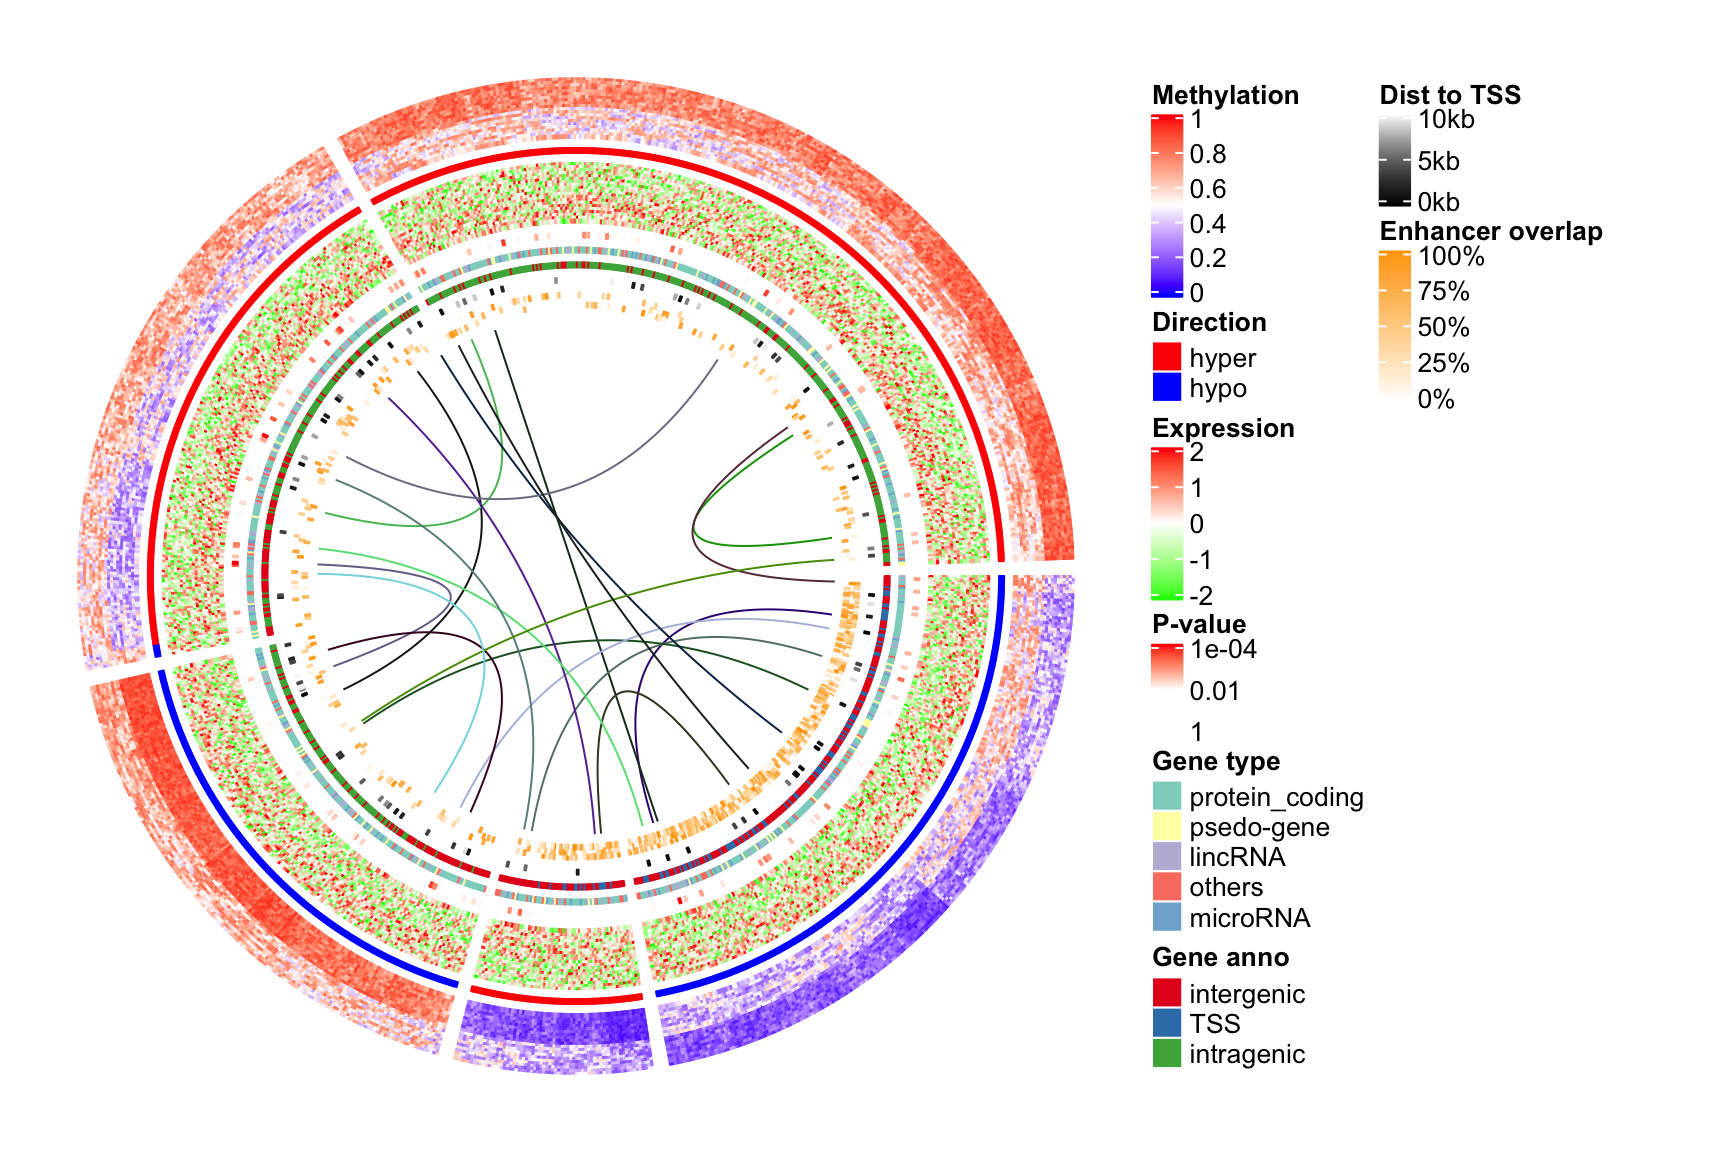
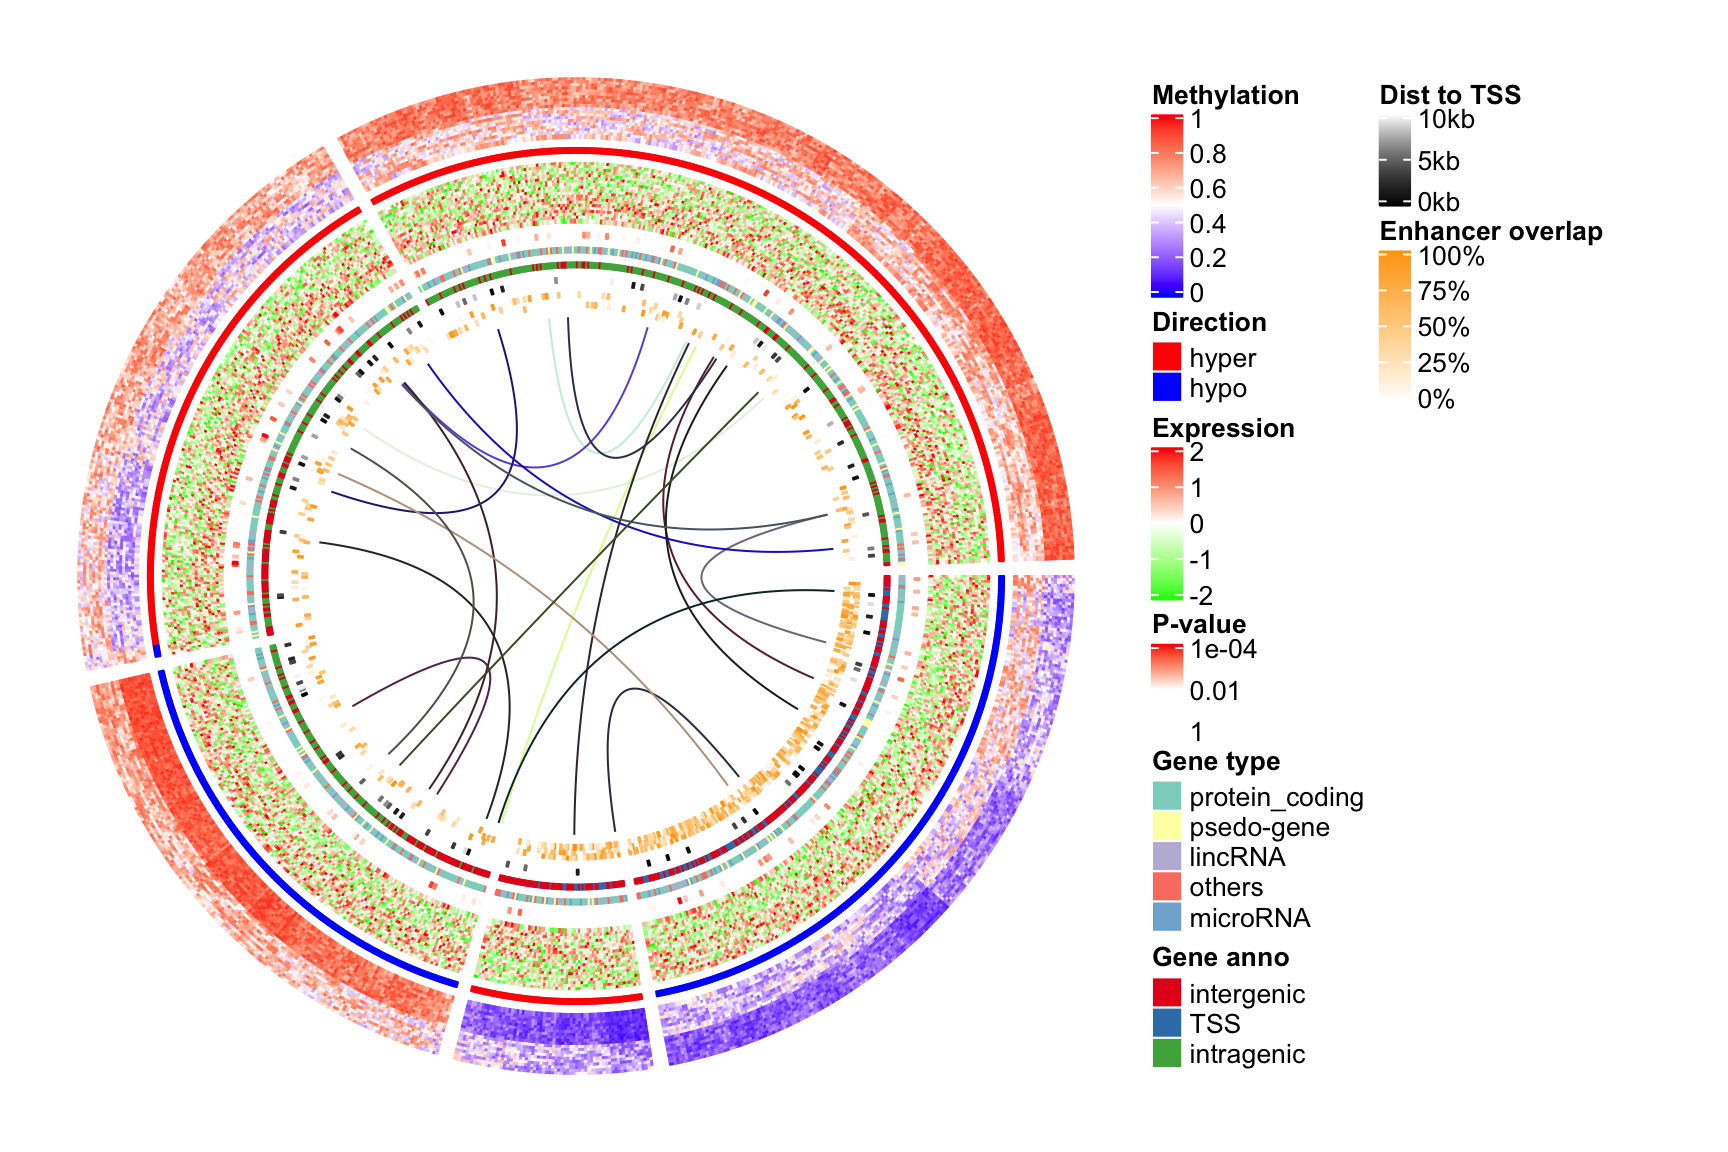
update

Changed region(s): [[0.1875, 0.3125, 0.4688, 0.7188], [0.4062, 0.625, 0.4375, 0.6875]]

diff --git a/2020/05/21/make-circular-heatmaps/index.html b/2020/05/21/make-circular-heatmaps/index.html
@@ -601,10 +601,6 @@ code without any modification.</p>
     circos.heatmap(dist, col = col_dist, track.height = 0.01)
     circos.heatmap(anno_enhancer, col = col_enhancer, track.height = 0.03)
 
-    df_link = data.frame(
-        from_index = sample(nrow(mat_meth), 20),
-        to_index = sample(nrow(mat_meth), 20)
-    )
     for(i in seq_len(nrow(df_link))) {
         circos.heatmap.link(df_link$from_index[i],
                             df_link$to_index[i],
